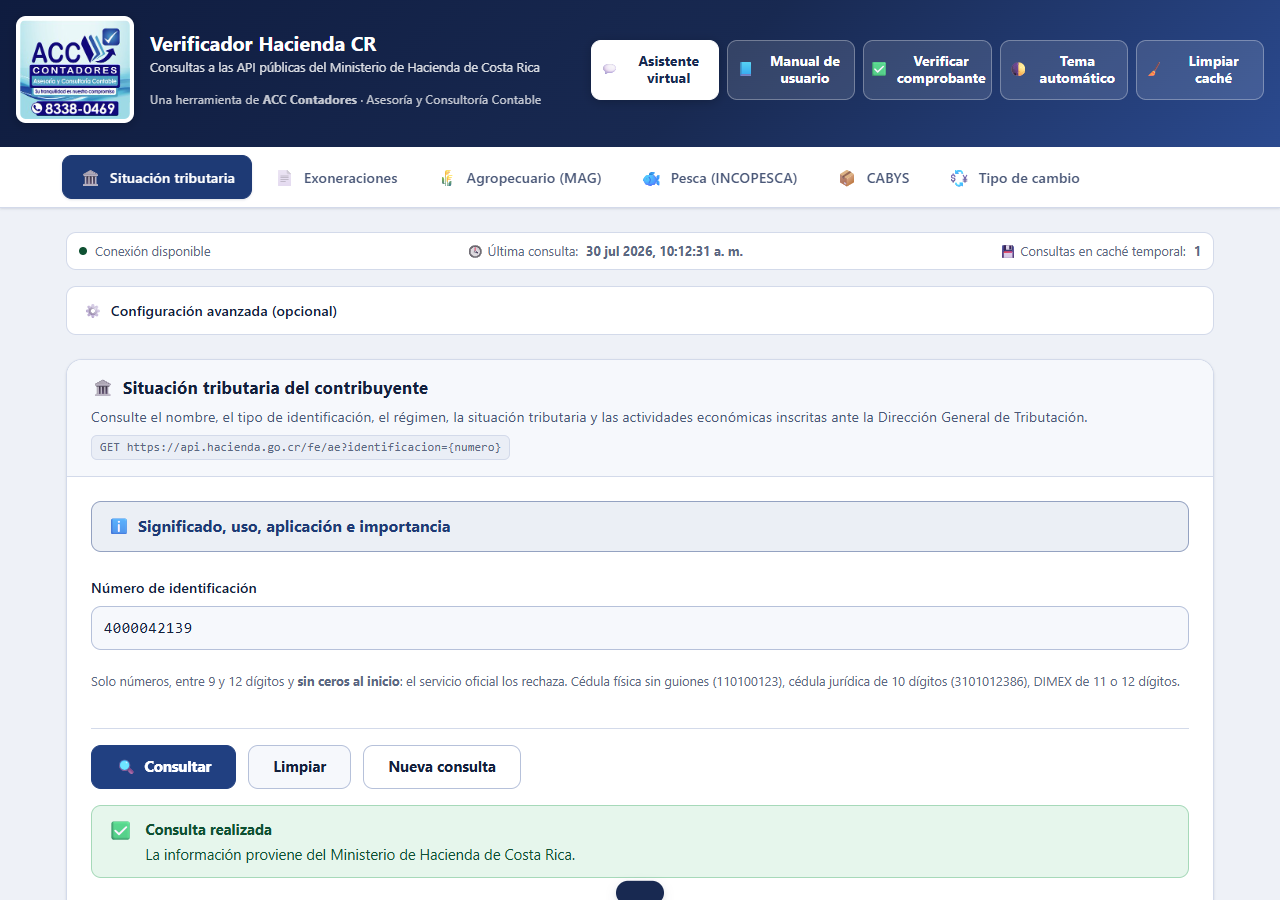
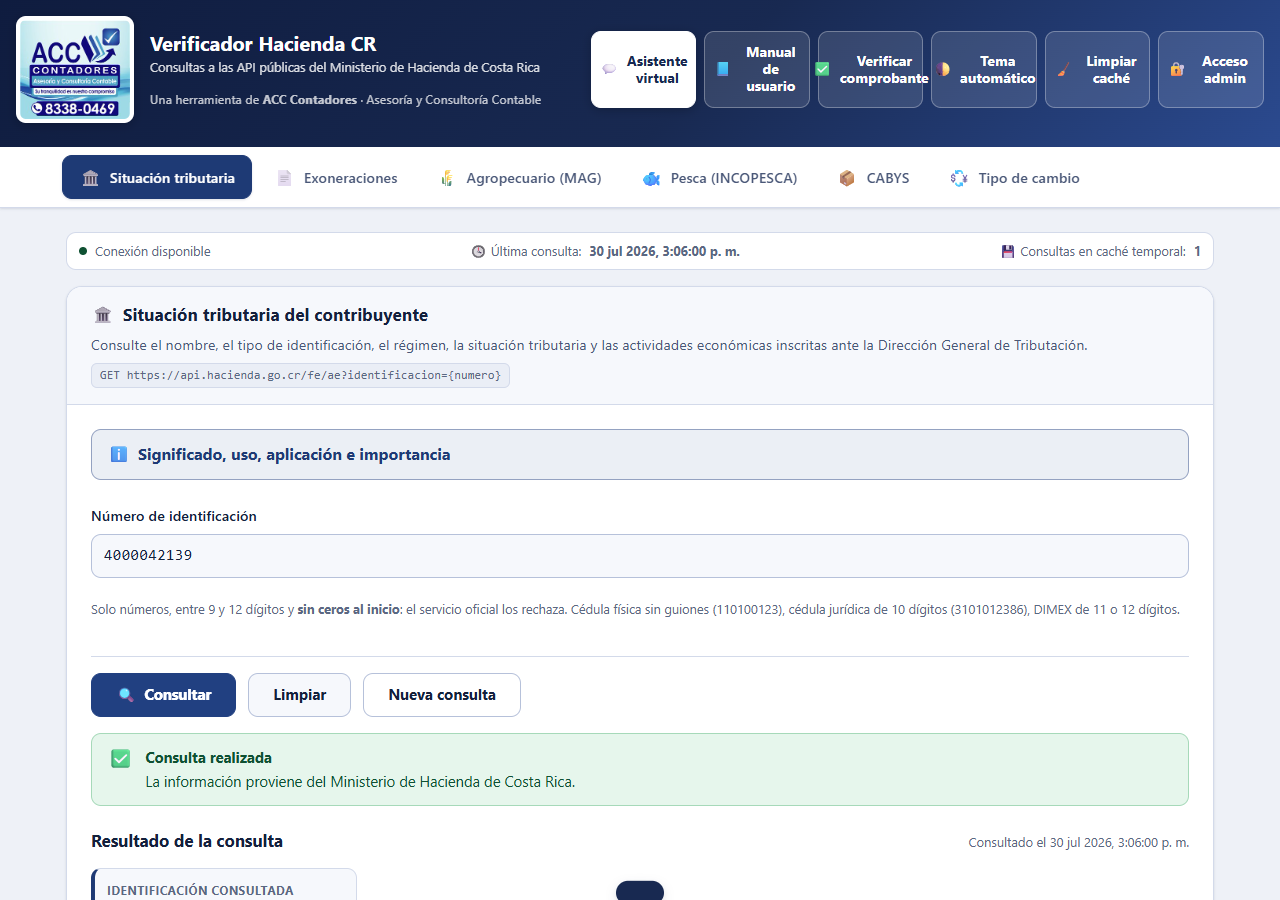
Cubre con pruebas el acceso administrativo y evita filtrar la contraseña
El control de acceso a la configuración avanzada llegó sin cobertura y con
dos problemas que se corrigen aquí.

El archivo «Contraseña.txt», con la clave en texto plano, estaba preparado
para confirmarse en un repositorio público. Se saca del índice y se añade
a .gitignore junto a otros patrones de credenciales. Nunca llegó a ningún
commit, así que no hace falta reescribir el historial.

El botón declaraba aria-haspopup="dialog" de forma permanente, pero una vez
desbloqueado ya no abre ningún diálogo: cierra la sesión. Anunciar un
diálogo que no se abrirá desorienta a quien navega con lector de pantalla,
de modo que esa propiedad y aria-controls sólo se declaran mientras siguen
siendo ciertas.

Se añaden doce comprobaciones al banco de comportamiento y un paso al
recorrido: configuración oculta al cargar, diálogo modal con nombre
accesible, campo enmascarado, Escape sin conceder acceso, rechazo de una
contraseña incorrecta, desbloqueo con la correcta, ausencia de la clave en
todo almacenamiento, persistencia al recargar la pestaña y cierre que borra
la marca de sesión. El banco de calidad comprueba ahora la privacidad en el
peor caso: con la sesión abierta, sessionStorage sólo guarda la marca de
desbloqueo, sin ninguna identificación.

Los bancos leen la contraseña de la variable ADMIN_PASSWORD para que sigan
funcionando cuando se cambie sin escribirla en el repositorio.

El README advierte de forma expresa que la contraseña de reparto es pública
[…]

diff --git a/pruebas/pruebas-comportamiento.js b/pruebas/pruebas-comportamiento.js
@@ -1,10 +1,15 @@
 /**
- * Auditoría de comportamiento: manual modal, paneles informativos,
- * teclado y adaptación a pantallas pequeñas con el manual abierto.
+ * Auditoría de comportamiento: manual modal, acceso administrativo, paneles
+ * informativos, teclado y adaptación a pantallas pequeñas con el manual abierto.
  */
 const { chromium } = require("playwright");
 const path = require("node:path");
 const APP = require("node:url").pathToFileURL(path.resolve(process.argv[2])).href;
+
+/* Contraseña administrativa con la que se publica la aplicación. Si usted la
+   cambia siguiendo el README, exporte ADMIN_PASSWORD antes de ejecutar el
+   banco; en caso contrario estas pruebas avisarán de que no coincide. */
+const ADMIN_PASSWORD = process.env.ADMIN_PASSWORD || "Admin-ACC-2026!";
 
 /**
  * Abre Google Chrome si está instalado y, si no, el Chromium que incluye
@@ -87,6 +92,101 @@ const esperar = (ms) => new Promise((r) => setTimeout(r, ms));
   await btnCerrar.click();
   await esperar(300);
   check("El botón de cierre funciona", !(await dlg.evaluate((n) => n.open)), "open=false");
+
+  /* ---------- Acceso administrativo a la configuración avanzada ---------- */
+  const visible = (sel) => p.evaluate((s) => {
+    const n = document.querySelector(s);
+    return Boolean(n && n.offsetParent !== null);
+  }, sel);
+
+  check("La configuración avanzada no se ve sin desbloquear",
+    !(await visible("#admin-config")),
+    "#admin-config oculto al cargar la página");
+  check("El botón de acceso arranca en estado bloqueado",
+    (await p.locator("#btn-admin").getAttribute("data-admin")) === "locked",
+    `data-admin="${await p.locator("#btn-admin").getAttribute("data-admin")}" · rótulo «${(await p.locator("#admin-label").textContent()).trim()}»`);
+
+  await p.click("#btn-admin");
+  await esperar(350);
+  const admDlg = p.locator("dialog.admin-dialog");
+  const admEstado = await admDlg.evaluate((n) => ({
+    modal: n.matches(":modal"),
+    etiqueta: n.getAttribute("aria-label") || n.getAttribute("aria-labelledby"),
+    tipo: n.querySelector("#admin-password")?.type
+  }));
+  check("El acceso se pide en un diálogo modal con nombre accesible",
+    admEstado.modal && Boolean(admEstado.etiqueta),
+    `:modal=${admEstado.modal}, referencia="${admEstado.etiqueta}"`);
+  check("La contraseña se escribe enmascarada", admEstado.tipo === "password",
+    `<input type="${admEstado.tipo}">`);
+
+  // Escape debe cerrar el diálogo sin conceder acceso.
+  await p.keyboard.press("Escape");
+  await esperar(300);
+  check("Escape cierra el acceso sin desbloquear nada",
+    !(await admDlg.evaluate((n) => n.open)) && !(await visible("#admin-config")),
+    "diálogo cerrado y configuración aún oculta");
+
+  // Una contraseña equivocada no debe conceder acceso.
+  await p.click("#btn-admin");
+  await esperar(300);
+  await p.fill("#admin-password", "clave-que-no-es");
+  await p.click("#admin-submit");
+  await esperar(600);
+  const errorTexto = (await p.locator("#admin-error").textContent()).trim();
+  check("Una contraseña incorrecta se rechaza y no revela la configuración",
+    errorTexto.length > 0 && !(await visible("#admin-config")) &&
+    (await p.locator("#btn-admin").getAttribute("data-admin")) === "locked",
+    `aviso «${errorTexto}» · configuración aún oculta`);
+
+  // La contraseña correcta sí debe conceder acceso.
+  await p.fill("#admin-password", ADMIN_PASSWORD);
+  await p.click("#admin-submit");
+  await esperar(900);
+  const desbloqueado = await visible("#admin-config");
+  check("La contraseña correcta muestra la configuración avanzada",
+    desbloqueado && (await p.locator("#btn-admin").getAttribute("data-admin")) === "unlocked",
+    desbloqueado
+      ? `rótulo «${(await p.locator("#admin-label").textContent()).trim()}» · #admin-config visible`
+      : "no se desbloqueó: ¿la contraseña se cambió? exporte ADMIN_PASSWORD");
+
+  // Desbloqueado, el botón ya no abre un diálogo: cierra la sesión. Prometer
+  // lo contrario a un lector de pantalla sería un anuncio falso.
+  const ariaTrasDesbloquear = await p.locator("#btn-admin").evaluate((n) => ({
+    haspopup: n.getAttribute("aria-haspopup"),
+    controls: n.getAttribute("aria-controls")
+  }));
+  check("El botón deja de anunciar un diálogo cuando ya no lo abre",
+    ariaTrasDesbloquear.haspopup === null && ariaTrasDesbloquear.controls === null,
+    `aria-haspopup=${ariaTrasDesbloquear.haspopup ?? "(ausente)"}, aria-controls=${ariaTrasDesbloquear.controls ?? "(ausente)"}`);
+
+  const rastro = await p.evaluate((clave) => {
+    const todo = Object.entries(localStorage).map(([k, v]) => k + "=" + v).join(" | ") +
+      " | " + Object.entries(sessionStorage).map(([k, v]) => k + "=" + v).join(" | ") +
+      " | " + document.cookie;
+    return { filtra: todo.includes(clave), sesion: Object.keys(sessionStorage).join(", ") };
+  }, ADMIN_PASSWORD);
+  check("La contraseña nunca se guarda en el navegador", !rastro.filtra,
+    `sessionStorage sólo conserva la marca de sesión: ${rastro.sesion || "(vacío)"}`);
+
+  // El desbloqueo debe sobrevivir a una recarga de la misma pestaña.
+  await p.reload({ waitUntil: "load" });
+  await esperar(500);
+  check("El desbloqueo se conserva al recargar la pestaña", await visible("#admin-config"),
+    "sessionStorage mantiene la sesión administrativa");
+
+  await p.click("#btn-admin");
+  await esperar(400);
+  const trasCerrar = await p.evaluate(() => ({
+    visible: Boolean(document.querySelector("#admin-config")?.offsetParent),
+    claves: Object.keys(sessionStorage).length,
+    haspopup: document.querySelector("#btn-admin").getAttribute("aria-haspopup")
+  }));
+  check("«Cerrar admin» vuelve a ocultar la configuración y borra la sesión",
+    !trasCerrar.visible && trasCerrar.claves === 0,
+    `configuración oculta · sessionStorage = ${trasCerrar.claves} claves`);
+  check("Al bloquear de nuevo, el botón vuelve a anunciar el diálogo",
+    trasCerrar.haspopup === "dialog", `aria-haspopup="${trasCerrar.haspopup}"`);
 
   /* ---------- Paneles informativos por módulo ---------- */
   const guias = await p.evaluate(() => {

diff --git a/pruebas/pruebas-recorrido.js b/pruebas/pruebas-recorrido.js
@@ -7,6 +7,10 @@ const { chromium } = require("playwright");
 const path = require("node:path");
 const APP = require("node:url").pathToFileURL(path.resolve(process.argv[2])).href;
 
+/* Contraseña administrativa con la que se publica la aplicación. Si usted la
+   cambia siguiendo el README, exporte ADMIN_PASSWORD antes de ejecutar el banco. */
+const ADMIN_PASSWORD = process.env.ADMIN_PASSWORD || "Admin-ACC-2026!";
+
 /**
  * Abre Google Chrome si está instalado y, si no, el Chromium que incluye
  * Playwright. Así el mismo banco sirve en un equipo de trabajo y en
@@ -225,8 +229,28 @@ function registrar(tipo, texto, contexto) {
   await paso("Tema: ciclo completo de los tres modos", async () => {
     for (let i = 0; i < 4; i++) { await p.click("#btn-theme"); await esperar(120); }
   });
+  await paso("Acceso administrativo: rechazo, desbloqueo y cierre", async () => {
+    if (await p.locator("#admin-config").isVisible()) throw new Error("la configuración se ve sin desbloquear");
+    await p.click("#btn-admin");
+    await esperar(250);
+    await p.fill("#admin-password", "clave-incorrecta");
+    await p.click("#admin-submit");
+    await esperar(500);
+    if (!(await p.locator("#admin-error").textContent()).trim()) throw new Error("una contraseña incorrecta no produjo aviso");
+    if (await p.locator("#admin-config").isVisible()) throw new Error("una contraseña incorrecta desbloqueó la configuración");
+    await p.fill("#admin-password", ADMIN_PASSWORD);
+    await p.click("#admin-submit");
+    await esperar(800);
+    if (!(await p.locator("#admin-config").isVisible())) {
+      throw new Error("la contraseña correcta no desbloqueó la configuración (exporte ADMIN_PASSWORD si la cambió)");
+    }
+  });
   await paso("Configuración avanzada: guardar, proxy inválido y restablecer", async () => {
-    await p.locator("details.config-card summary").click();
+    // El desbloqueo ya despliega el panel: se pulsa el resumen sólo si sigue
+    // plegado, porque hacerlo sobre uno abierto lo cerraría.
+    if (!(await p.locator("#admin-config").evaluate((n) => n.open))) {
+      await p.locator("details.config-card summary").click();
+    }
     await esperar(150);
     await p.selectOption("#cfg-ttl", "300000");
     await p.click("#cfg-save");

diff --git a/pruebas/pruebas-calidad.js b/pruebas/pruebas-calidad.js
@@ -121,14 +121,21 @@ function contraste(c1, c2) {
   await p.fill("#in-tributaria", "4000042139");
   await p.click("#btn-tributaria");
   await p.waitForSelector("#out-tributaria .dl__item", { timeout: 45000 });
+  // Se desbloquea el área administrativa para comprobar el peor caso: incluso
+  // con la sesión abierta, lo único que se guarda es una marca sin dato alguno.
+  await p.evaluate(() => { try { sessionStorage.setItem(ADMIN_SESSION_KEY, "1"); } catch { /* sin almacenamiento */ } });
   const almacenado = await p.evaluate(() => ({
     local: Object.entries(localStorage).map(([k, v]) => k + "=" + v).join(" | "),
-    session: Object.keys(sessionStorage).length,
+    session: Object.entries(sessionStorage).map(([k, v]) => k + "=" + v).join(" | "),
+    claves: Object.keys(sessionStorage),
     cookies: document.cookie
   }));
+  const CLAVES_SESION_PERMITIDAS = ["verificadorHaciendaCR.adminUnlocked"];
+  const intrusas = almacenado.claves.filter((k) => !CLAVES_SESION_PERMITIDAS.includes(k));
   check("Ninguna identificación llega al almacenamiento persistente",
-    !/4000042139/.test(almacenado.local + almacenado.cookies) && almacenado.session === 0,
-    `localStorage: ${almacenado.local.slice(0, 70)} · sessionStorage: ${almacenado.session} claves · cookies: ${almacenado.cookies || "ninguna"}`);
+    !/4000042139/.test(almacenado.local + almacenado.session + almacenado.cookies) && intrusas.length === 0,
+    `localStorage: ${almacenado.local.slice(0, 70)} · sessionStorage: ${almacenado.session || "(vacío)"} · cookies: ${almacenado.cookies || "ninguna"}`);
+  await p.evaluate(() => { try { sessionStorage.clear(); } catch { /* sin almacenamiento */ } });
 
   /* ---------- Seguridad: el proxy sólo admite HTTPS ---------- */
   const proxy = await p.evaluate(() => {

diff --git a/index.html b/index.html
@@ -2748,10 +2748,22 @@ function initAdminAccess() {
   const submit = $("admin-submit");
 
   const setUnlocked = (unlocked) => {
+    const boton = $("btn-admin");
     $("admin-config").hidden = !unlocked;
-    $("btn-admin").dataset.admin = unlocked ? "unlocked" : "locked";
+    boton.dataset.admin = unlocked ? "unlocked" : "locked";
     $("admin-ico").textContent = unlocked ? "🔓" : "🔐";
     $("admin-label").textContent = unlocked ? "Cerrar admin" : "Acceso admin";
+    // El mismo botón cumple dos funciones: bloqueado abre el diálogo de acceso
+    // y desbloqueado cierra la sesión. Anunciar un diálogo que ya no se abrirá
+    // desorienta a quien navega con lector de pantalla, así que las propiedades
+    // que lo prometen sólo se declaran mientras siguen siendo ciertas.
+    if (unlocked) {
+      boton.removeAttribute("aria-haspopup");
+      boton.removeAttribute("aria-controls");
+    } else {
+      boton.setAttribute("aria-haspopup", "dialog");
+      boton.setAttribute("aria-controls", "admin-acceso");
+    }
     if (!unlocked) $("admin-config").open = false;
     try {
       if (unlocked) sessionStorage.setItem(ADMIN_SESSION_KEY, "1");

diff --git a/PRUEBAS.md b/PRUEBAS.md
@@ -9,12 +9,12 @@ API consultada: `https://api.hacienda.go.cr` (servicios oficiales, sin datos sim
 | 1 · Lógica pura | 87 | 87 | 0 |
 | 2 · Integración con la API oficial | 16 | 16 | 0 |
 | 3 · Estructura y accesibilidad del DOM | 13 | 13 | 0 |
-| 4 · Comportamiento (manual modal, paneles, teclado) | 16 | 16 | 0 |
+| 4 · Comportamiento (manual modal, acceso admin, paneles, teclado) | 28 | 28 | 0 |
 | 5 · Calidad: memoria, seguridad y contraste | 14 | 14 | 0 |
-| 6 · Recorrido exhaustivo (45 pasos, consola limpia) | 45 | 45 | 0 |
+| 6 · Recorrido exhaustivo (46 pasos, consola limpia) | 46 | 46 | 0 |
 | 7 · Navegador real (Chrome) | 58 | 58 | 0 |
 | 8 · Sitio publicado (URL pública real) | 10 | 10 | 0 |
-| **Total** | **259** | **259** | **0** |
+| **Total** | **272** | **272** | **0** |
 
 Todos los bancos son reproducibles; los comandos figuran al final de cada sección.
 
@@ -603,7 +603,7 @@ Dos hallazgos iniciales resultaron ser errores de medición de las propias prueb
 
 También se descartó una tanda de «símbolos sin usar» del análisis estático: el analizador trataba `//` dentro de cadenas como comentario y borraba código. Comprobado directamente sobre el archivo, las once funciones y todas las claves de configuración se utilizan.
 
-### Recorrido exhaustivo: 45 pasos sin una sola incidencia
+### Recorrido exhaustivo: 46 pasos sin una sola incidencia
 
 ```text
 · Las seis pestañas y sus seis paneles informativos, abriendo y cerrando cada guía
@@ -616,6 +616,7 @@ También se descartó una tanda de «símbolos sin usar» del análisis estátic
 · Doble clic sobre Consultar
 · Manual: apertura, los seis enlaces del índice y cierre con Escape
 · Tema: ciclo completo de los tres modos
+· Acceso admin: contraseña incorrecta rechazada y contraseña correcta aceptada
 · Configuración: guardar, proxy inválido, proxy inseguro y restablecer
 · Limpiar caché
 · Pérdida de conexión y recuperación
@@ -623,6 +624,55 @@ También se descartó una tanda de «símbolos sin usar» del análisis estátic
 ```
 
 Resultado: **ninguna excepción, ningún error ni advertencia de consola, ningún paso fallido.**
+
+---
+
+## 6 quinquies. Acceso administrativo a la configuración avanzada
+
+La configuración avanzada dejó de estar a la vista de cualquier visitante: ahora se
+desbloquea con una contraseña que el navegador comprueba mediante **PBKDF2-SHA-256 con
+210 000 iteraciones**. En el archivo sólo viajan la sal y el hash; la contraseña no se
+guarda nunca en texto legible, y la comparación del resultado se hace en tiempo constante.
+
+### Lo que se comprobó
+
+```text
+· La configuración no es visible al cargar la página
+· El botón arranca en estado bloqueado y así lo declara (data-admin="locked")
+· El acceso se pide en un <dialog> modal con nombre accesible
+· El campo usa type="password", de modo que no se muestra en pantalla
+· Escape cierra el diálogo sin conceder acceso
+· Una contraseña incorrecta produce aviso y NO revela la configuración
+· La contraseña correcta la muestra y el botón pasa a «Cerrar admin»
+· La contraseña no aparece en localStorage, sessionStorage ni cookies
+· El desbloqueo sobrevive a una recarga de la misma pestaña
+· «Cerrar admin» vuelve a ocultarla y borra la marca de sesión
+```
+
+Doce casos en el banco 4 y un paso más en el recorrido: **13 comprobaciones nuevas, todas
+correctas**. El banco 5 se reforzó además para verificar la privacidad *en el peor caso*:
+con la sesión administrativa abierta, `sessionStorage` contiene únicamente la marca
+`verificadorHaciendaCR.adminUnlocked=1`, sin ninguna identificación consultada.
+
+### Alcance real de este control — declarado, no supuesto
+
+Conviene no exagerar lo que aporta. La aplicación es un archivo estático que se descarga
+completo en el navegador de cada visitante, de modo que **este control evita el manejo
+accidental, no el acceso deliberado**: quien edite el JavaScript en su propio navegador
+puede saltárselo. Dos observaciones honestas al respecto:
+
+1. **La contraseña de reparto es pública.** Figura en el `README.md`, que se publica en el
+   mismo repositorio abierto que la aplicación. Mientras no se cambie, cualquiera que lea
+   la documentación puede abrir el panel. El README lo advierte de forma expresa y explica
+   cómo generar una sal y un hash nuevos.
+2. **Detrás del portón no hay ningún secreto.** Los dos ajustes del panel —duración de la
+   caché y dirección de un proxy propio— se guardan en el `localStorage` de cada visitante
+   y sólo afectan a su propia sesión: no hay configuración compartida que un tercero pueda
+   alterar para los demás. Por eso la exposición de la contraseña es un defecto de
+   coherencia, no una vía de compromiso.
+
+Para proteger algo que sí fuera sensible, el área administrativa tendría que trasladarse a
+un backend autenticado; con una arquitectura estática no hay forma de lograrlo.
 
 ---
 
@@ -646,9 +696,9 @@ npm test
 npm run test:logica         # validadores y normalizadores
 npm run test:api            # integración contra la API real
 npm run test:estructura     # DOM, ARIA, anidamiento
-npm run test:comportamiento # manual modal, paneles, teclado
+npm run test:comportamiento # manual modal, acceso admin, paneles, teclado
 npm run test:calidad        # memoria, seguridad y contraste
-npm run test:recorrido      # 45 pasos, sin tolerar errores de consola
+npm run test:recorrido      # 46 pasos, sin tolerar errores de consola
 npm run test:navegador      # interfaz completa y capturas
 npm run test:sitio          # contra la URL pública ya desplegada
 node pruebas/pruebas-estructura.js index.html

diff --git a/README.md b/README.md
@@ -60,10 +60,10 @@ VERIFICADOR/
     ├── pruebas-logica.js      ← 87 pruebas de validadores, normalizadores y registros.
     ├── pruebas-api.js         ← 16 pruebas de integración contra la API real.
     ├── pruebas-estructura.js  ← 13 auditorías del DOM (ids, ARIA, anidamiento, alt…).
-    ├── pruebas-comportamiento.js ← 16 pruebas del manual modal, paneles y teclado.
+    ├── pruebas-comportamiento.js ← 28 pruebas del manual modal, acceso admin, paneles y teclado.
     ├── pruebas-navegador.js   ← 58 pruebas en Chrome (interfaz, a11y, móvil).
     ├── pruebas-calidad.js     ← 14 pruebas de memoria, seguridad y contraste.
-    ├── pruebas-recorrido.js   ← 45 pasos por toda la interfaz, sin tolerar errores.
+    ├── pruebas-recorrido.js   ← 46 pasos por toda la interfaz, sin tolerar errores.
     ├── pruebas-sitio-publicado.js ← 10 pruebas contra la URL pública ya desplegada.
     └── capturas/              ← Capturas de pantalla y un CSV exportado real.
 ```
@@ -440,12 +440,12 @@ Resultados completos y evidencia en **[`PRUEBAS.md`](PRUEBAS.md)**. Resumen:
 | Lógica pura (validadores, normalizadores, clasificadores) | 87 | 87 correctos |
 | Integración contra la API oficial | 16 | 16 correctos |
 | Estructura y accesibilidad del DOM | 13 | 13 correctos |
-| Comportamiento (manual modal, paneles, teclado) | 16 | 16 correctos |
+| Comportamiento (manual modal, acceso admin, paneles, teclado) | 28 | 28 correctos |
 | Calidad: memoria, seguridad y contraste | 14 | 14 correctos |
-| Recorrido exhaustivo (45 pasos, consola limpia) | 45 | 45 correctos |
+| Recorrido exhaustivo (46 pasos, consola limpia) | 46 | 46 correctos |
 | Navegador real (Chrome: interfaz, accesibilidad, móvil) | 58 | 58 correctos |
 | Sitio publicado (URL pública real) | 10 | 10 correctos |
-| **Total** | **259** | **259 correctos** |
+| **Total** | **272** | **272 correctos** |
 
 ### Pruebas automáticas en cada publicación
 
@@ -489,7 +489,9 @@ node pruebas/pruebas-navegador.js "RUTA/ABSOLUTA/index.html" "pruebas/capturas"
 
 **Cambiar la duración predeterminada de la caché.** Modifique `prefs.ttl` (§ 4) o utilice el selector de Configuración avanzada.
 
-**Acceso a la configuración avanzada.** La contraseña inicial es `Admin-ACC-2026!`. Debe cambiarse antes de publicar. El navegador la verifica mediante PBKDF2-SHA-256 (210 000 iteraciones); sólo la sal y el hash están en `ADMIN_AUTH`, y el desbloqueo vive en `sessionStorage` hasta cerrar la pestaña o pulsar «Cerrar admin».
+**Acceso a la configuración avanzada.** La contraseña de reparto es `Admin-ACC-2026!`. El navegador la verifica mediante PBKDF2-SHA-256 (210 000 iteraciones); sólo la sal y el hash están en `ADMIN_AUTH`, la contraseña nunca se guarda en texto legible, y el desbloqueo vive en `sessionStorage` hasta cerrar la pestaña o pulsar «Cerrar admin».
+
+> ⚠ **Esta contraseña es pública.** Está escrita en este archivo, que se publica junto a la aplicación en un repositorio abierto: cualquiera que lea el README puede abrir el panel. Mientras no se cambie, el control **sólo evita el manejo accidental**, no el acceso deliberado.
 
 Para generar una sal y un hash nuevos, cambie `SU-CONTRASEÑA` y ejecute:
 
@@ -497,7 +499,13 @@ Para generar una sal y un hash nuevos, cambie `SU-CONTRASEÑA` y ejecute:
 node -e "const c=require('crypto');const s=c.randomBytes(16);console.log('salt:',s.toString('base64'));console.log('hash:',c.pbkdf2Sync('SU-CONTRASEÑA',s,210000,32,'sha256').toString('base64'))"
 ```
 
-Copie ambos valores en `ADMIN_AUTH`. Al ser una aplicación estática, este control evita el acceso casual pero no sustituye una autenticación de servidor: una persona que pueda modificar el JavaScript en su navegador puede omitirlo. Para proteger secretos o configuraciones globales se requiere trasladar el área administrativa a un backend autenticado.
+Copie ambos valores en `ADMIN_AUTH` (§ 4 de `index.html`) y **no escriba la contraseña nueva en ningún archivo del repositorio**. Los bancos de pruebas la leen de la variable de entorno `ADMIN_PASSWORD`:
+
+```bash
+ADMIN_PASSWORD='SU-CONTRASEÑA' npm test
+```
+
+Aun con una contraseña privada, al tratarse de una aplicación estática este control evita el acceso casual pero **no sustituye una autenticación de servidor**: quien pueda editar el JavaScript en su propio navegador puede omitirlo. Conviene recordar qué protege realmente: los dos ajustes del panel —duración de la caché y dirección de un proxy propio— se guardan en el `localStorage` de cada visitante y sólo afectan a su propia sesión. No hay allí ningún secreto ni configuración compartida. Para proteger algo que sí lo sea, el área administrativa debe trasladarse a un backend autenticado.
 
 **Personalizar los colores institucionales.** Edite las variables `--brand-900`, `--brand-700` y `--brand-500` (§ 1.1); el resto del diseño se adapta automáticamente en ambos temas.
 
